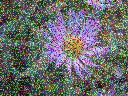
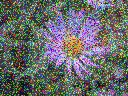
Add more sizes of example image

diff --git a/encrypt.py b/encrypt.py
@@ -147,6 +147,7 @@ def mod(a, n):
     Implementation for modular arithmetic over complex numbers taken from this
     stack exchange thread: https://codegolf.stackexchange.com/questions/196122/gaussian-integer-division-reminder
     """
+    # TODO: check this again too
     # If a is not complex
     if not isinstance(a, complex):
         return a % n
@@ -176,6 +177,10 @@ def xor(x, y):
     """
     Calculates the absolute value of the XOR of two arrays `x` and `y` by converting both to ints and returning their magnitude.
     """
+    # TODO: look at this again, may be causing the encryption bug
+    # why does smaller image look encrypted?  not just smaller, the
+    # color distribution looks better
+    # try to make a 64x48 test image, various other sizes of test image
     return np.abs(np.array(x, dtype=int) ^ np.array(y, dtype=int))
 
 def enc(img, pkb, verbose=False):
@@ -298,7 +303,9 @@ def dec_channel(img, ciphertexts, r, pkb, skb, verbose=False):
     return C_rk
 
 if __name__ == "__main__":
-    img_filename = "testimage1_128x96.jpg"
+    #img_filename = "testimage1_128x96.jpg"
+    #img_filename = "testimage1_64x48.jpg"
+    img_filename = "testimage1_96x72.jpg"
     #img_filename = "testimage1_32x24.jpg"
     print("Starting...")
     start = time.time()
